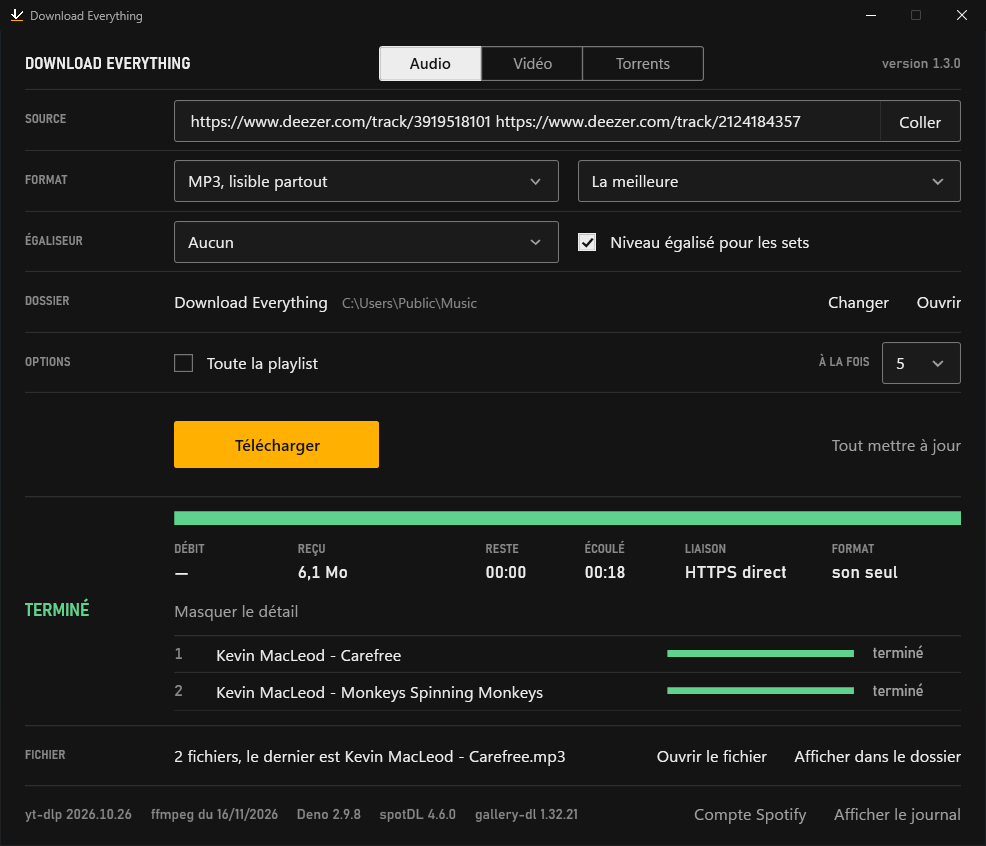
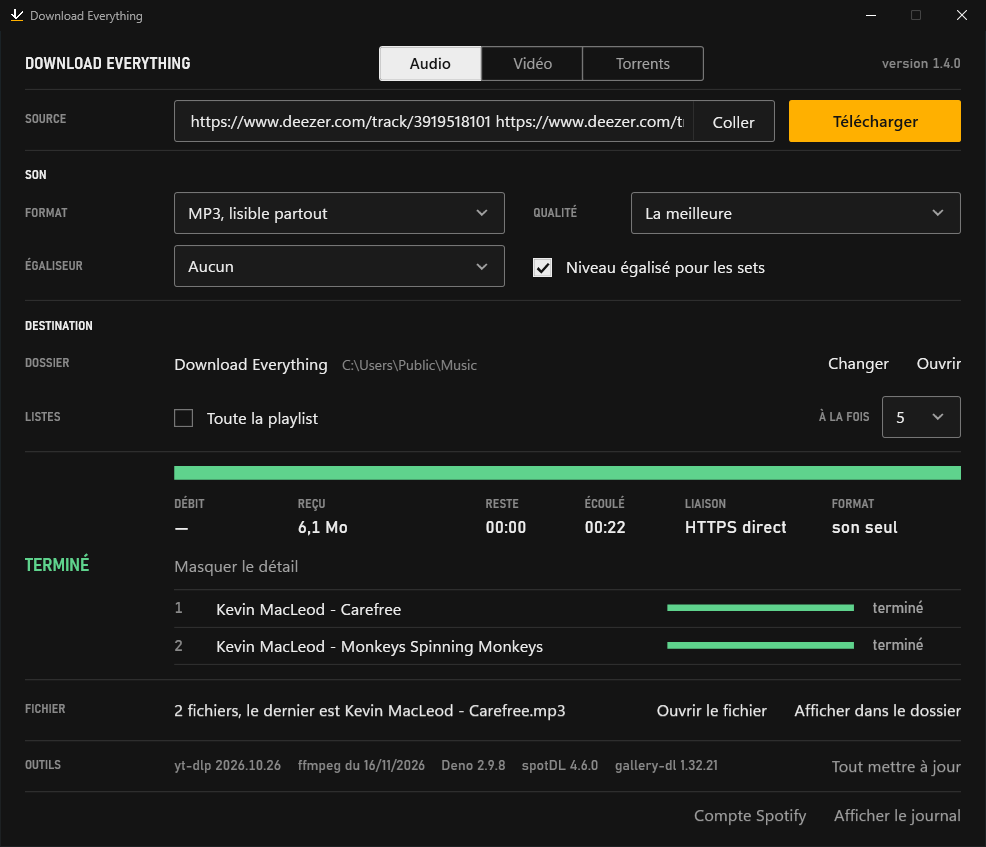
Version 1.4.0 : fenêtre réorganisée, cinq à la fois au plus
Le bouton Télécharger est sur la rangée de l'adresse : coller, cliquer,
c'est le geste de tous les jours. Annuler apparaît à côté pendant un
travail.

Les réglages se rangent en deux groupes. Le premier règle le fichier, il
s'appelle « Son » en vue audio et « Image » en vue vidéo, et sa seconde
liste porte son étiquette, « Qualité » ou « Définition ». Le second,
« Destination », tient le dossier et les réglages de liste.

« Reprendre les manquants » s'affiche dans la zone d'état, sous le message
qui annonce les échecs. « Tout mettre à jour » est au pied, sur une rangée
Outils avec les versions.

Le choix « à la fois » va de 1 à 5. À dix, YouTube refusait la connexion
dès le départ, et chaque nouvel essai relançait le refus. Un réglage plus
haut, retenu d'une version précédente, est ramené à 5.

diff --git a/FenetrePrincipale.xaml b/FenetrePrincipale.xaml
@@ -80,6 +80,17 @@
             <Setter Property="MinHeight" Value="52"/>
         </Style>
 
+        <!-- Rangée d'un groupe de réglages. Pas de filet : c'est le groupe entier qui se ferme, pas chaque rangée. -->
+        <Style x:Key="LigneDeGroupe" TargetType="Border">
+            <Setter Property="MinHeight" Value="46"/>
+        </Style>
+
+        <!-- Titre d'un groupe de réglages. Même lettrage que les étiquettes, en clair pour passer devant elles. -->
+        <Style x:Key="TitreDeGroupe" TargetType="TextBlock" BasedOn="{StaticResource Etiquette}">
+            <Setter Property="Foreground" Value="{StaticResource Texte}"/>
+            <Setter Property="Margin" Value="0,14,0,2"/>
+        </Style>
+
         <!-- Bouton principal, le seul élément plein en couleur signal. -->
         <Style x:Key="BoutonSignal" TargetType="Button">
             <Setter Property="Background" Value="{StaticResource Signal}"/>
@@ -465,15 +476,22 @@
             <!-- Vue de téléchargement : tout ce qui suit, jusqu'au pied, se cache quand on passe sur les torrents. -->
             <StackPanel x:Name="VueTelechargement">
 
-            <!-- SOURCE -->
+            <!-- SOURCE. L'adresse et le bouton qui la lance sont sur la même rangée : coller, cliquer, c'est le geste
+                 de tous les jours. Annuler n'apparaît que pendant un travail, à côté. -->
             <Border Style="{StaticResource Ligne}">
                 <Grid>
                     <Grid.ColumnDefinitions>
                         <ColumnDefinition Width="112"/>
                         <ColumnDefinition Width="16"/>
                         <ColumnDefinition Width="*"/>
+                        <ColumnDefinition Width="Auto"/>
+                        <ColumnDefinition Width="Auto"/>
                     </Grid.ColumnDefinitions>
                     <TextBlock Style="{StaticResource Etiquette}" Text="SOURCE"/>
+                    <Button x:Name="BoutonTelecharger" Grid.Column="3" Style="{StaticResource BoutonSignal}" Width="148" Height="36" Margin="12,0,0,0"
+                            Content="_Télécharger" IsDefault="True" Click="Telecharger" AutomationProperties.Name="Télécharger"/>
+                    <Button x:Name="BoutonAnnuler" Grid.Column="4" Style="{StaticResource BoutonTexte}" Padding="14,0" Margin="4,0,-12,0"
+                            Content="_Annuler" IsCancel="True" Visibility="Collapsed" Click="Annuler"/>
                     <Grid Grid.Column="2" Height="36">
                         <Border Background="{StaticResource Champ}" BorderBrush="{StaticResource Contour}" BorderThickness="1"
                                 CornerRadius="{StaticResource Rayon}"/>
@@ -520,47 +538,63 @@
                 </Grid>
             </Border>
 
-            <!-- FORMAT. Le format du fichier, puis la qualité qui va avec la vue : la définition de l'image en vidéo,
-                 le débit du son en audio. Les deux listes de qualité occupent la même place, une seule se montre. -->
-            <Border Style="{StaticResource Ligne}">
-                <Grid>
-                    <Grid.ColumnDefinitions>
-                        <ColumnDefinition Width="112"/>
-                        <ColumnDefinition Width="16"/>
-                        <ColumnDefinition Width="*"/>
-                        <ColumnDefinition Width="16"/>
-                        <ColumnDefinition Width="*"/>
-                    </Grid.ColumnDefinitions>
-                    <TextBlock Style="{StaticResource Etiquette}" Text="FORMAT"/>
-                    <ComboBox x:Name="ChoixFormat" Grid.Column="2" AutomationProperties.Name="Format"/>
-                    <ComboBox x:Name="ChoixQualite" Grid.Column="4" AutomationProperties.Name="Qualité de l'image" Visibility="Collapsed"/>
-                    <ComboBox x:Name="ChoixQualiteSon" Grid.Column="4" AutomationProperties.Name="Qualité du son"
-                              ToolTip="Débit du son converti (MP3, M4A, Opus). La source dépasse rarement 160 kb/s, un débit plus haut grossit le fichier sans l'améliorer."/>
-                </Grid>
+            <!-- Premier groupe, ce qui règle le fichier : le son en vue audio, l'image en vue vidéo. Son titre change
+                 avec la vue. Les deux rangées ont les mêmes colonnes, pour que leurs listes tombent l'une sous l'autre. -->
+            <Border BorderBrush="{StaticResource Filet}" BorderThickness="0,0,0,1" Padding="0,0,0,6">
+                <StackPanel>
+                    <TextBlock x:Name="TitreDuFichier" Style="{StaticResource TitreDeGroupe}" Text="SON"/>
+
+                    <!-- FORMAT. Le format du fichier, puis la qualité qui va avec la vue : le débit du son en audio, la
+                         définition de l'image en vidéo. Les deux listes de qualité occupent la même place, une seule se montre. -->
+                    <Border Style="{StaticResource LigneDeGroupe}">
+                        <Grid>
+                            <Grid.ColumnDefinitions>
+                                <ColumnDefinition Width="112"/>
+                                <ColumnDefinition Width="16"/>
+                                <ColumnDefinition Width="*"/>
+                                <ColumnDefinition Width="24"/>
+                                <ColumnDefinition Width="84"/>
+                                <ColumnDefinition Width="*"/>
+                            </Grid.ColumnDefinitions>
+                            <TextBlock Style="{StaticResource Etiquette}" Text="FORMAT"/>
+                            <ComboBox x:Name="ChoixFormat" Grid.Column="2" AutomationProperties.Name="Format"/>
+                            <TextBlock x:Name="EtiquetteQualite" Grid.Column="4" Style="{StaticResource Etiquette}" Text="QUALITÉ"/>
+                            <ComboBox x:Name="ChoixQualite" Grid.Column="5" AutomationProperties.Name="Qualité de l'image" Visibility="Collapsed"/>
+                            <ComboBox x:Name="ChoixQualiteSon" Grid.Column="5" AutomationProperties.Name="Qualité du son"
+                                      ToolTip="Débit du son converti (MP3, M4A, Opus). La source dépasse rarement 160 kb/s, un débit plus haut grossit le fichier sans l'améliorer."/>
+                        </Grid>
+                    </Border>
+
+                    <!-- ÉGALISEUR. Propre à la vue audio, la rangée disparaît en vidéo. -->
+                    <Border x:Name="LigneEgaliseur" Style="{StaticResource LigneDeGroupe}">
+                        <Grid>
+                            <Grid.ColumnDefinitions>
+                                <ColumnDefinition Width="112"/>
+                                <ColumnDefinition Width="16"/>
+                                <ColumnDefinition Width="*"/>
+                                <ColumnDefinition Width="24"/>
+                                <ColumnDefinition Width="84"/>
+                                <ColumnDefinition Width="*"/>
+                            </Grid.ColumnDefinitions>
+                            <TextBlock Style="{StaticResource Etiquette}" Text="ÉGALISEUR"/>
+                            <ComboBox x:Name="ChoixEgaliseur" Grid.Column="2" AutomationProperties.Name="Égaliseur"
+                                      ToolTip="Appliqué à chaque son téléchargé. Le son est alors réencodé, et le format d'origine devient de l'Opus."/>
+                            <!-- L'interrupteur du niveau égalisé. Il ne touche pas au timbre, il s'ajoute donc à l'égaliseur au lieu d'en être un réglage. -->
+                            <CheckBox x:Name="ChoixNiveau" Grid.Column="4" Grid.ColumnSpan="2" Style="{StaticResource Case}" HorizontalAlignment="Left" VerticalAlignment="Center"
+                                      Content="Niveau égalisé pour les sets"
+                                      ToolTip="Ramène chaque morceau vers −9 LUFS, le niveau des morceaux de club, pour les enchaîner sans retoucher le gain. Le son n'est pas réencodé et sa dynamique ne change pas. Un morceau trop calme pour être monté sans saturer est laissé tel quel. Avec MP3, FLAC, WAV, AIFF ou ALAC."/>
+                        </Grid>
+                    </Border>
+                </StackPanel>
             </Border>
 
-            <!-- ÉGALISEUR. Propre à la vue audio, la rangée disparaît en vidéo. -->
-            <Border x:Name="LigneEgaliseur" Style="{StaticResource Ligne}">
-                <Grid>
-                    <Grid.ColumnDefinitions>
-                        <ColumnDefinition Width="112"/>
-                        <ColumnDefinition Width="16"/>
-                        <ColumnDefinition Width="*"/>
-                        <ColumnDefinition Width="16"/>
-                        <ColumnDefinition Width="*"/>
-                    </Grid.ColumnDefinitions>
-                    <TextBlock Style="{StaticResource Etiquette}" Text="ÉGALISEUR"/>
-                    <ComboBox x:Name="ChoixEgaliseur" Grid.Column="2" AutomationProperties.Name="Égaliseur"
-                              ToolTip="Appliqué à chaque son téléchargé. Le son est alors réencodé, et le format d'origine devient de l'Opus."/>
-                    <!-- L'interrupteur du niveau égalisé. Il ne touche pas au timbre, il s'ajoute donc à l'égaliseur au lieu d'en être un réglage. -->
-                    <CheckBox x:Name="ChoixNiveau" Grid.Column="4" Style="{StaticResource Case}" HorizontalAlignment="Left" VerticalAlignment="Center"
-                              Content="Niveau égalisé pour les sets"
-                              ToolTip="Ramène chaque morceau vers −9 LUFS, le niveau des morceaux de club, pour les enchaîner sans retoucher le gain. Le son n'est pas réencodé et sa dynamique ne change pas. Un morceau trop calme pour être monté sans saturer est laissé tel quel. Avec MP3, FLAC, WAV, AIFF ou ALAC."/>
-                </Grid>
-            </Border>
+            <!-- Second groupe, où va le fichier et comment les listes sont prises. Pas de filet en bas : la zone d'état
+                 ou le pied, qui suivent, portent le leur. -->
+            <StackPanel Margin="0,0,0,6">
+            <TextBlock Style="{StaticResource TitreDeGroupe}" Text="DESTINATION"/>
 
             <!-- DOSSIER. Le nom du dossier d'abord, le chemin qui y mène ensuite, en plus discret. -->
-            <Border x:Name="LigneDossier" Style="{StaticResource Ligne}">
+            <Border x:Name="LigneDossier" Style="{StaticResource LigneDeGroupe}">
                 <Grid>
                     <Grid.ColumnDefinitions>
                         <ColumnDefinition Width="112"/>
@@ -582,15 +616,15 @@
                 </Grid>
             </Border>
 
-            <!-- OPTIONS -->
-            <Border Style="{StaticResource Ligne}">
+            <!-- LISTES. Les deux réglages qui ne jouent que pour un album, une playlist ou plusieurs liens. -->
+            <Border Style="{StaticResource LigneDeGroupe}">
                 <Grid>
                     <Grid.ColumnDefinitions>
                         <ColumnDefinition Width="112"/>
                         <ColumnDefinition Width="16"/>
                         <ColumnDefinition Width="*"/>
                     </Grid.ColumnDefinitions>
-                    <TextBlock Style="{StaticResource Etiquette}" Text="OPTIONS"/>
+                    <TextBlock Style="{StaticResource Etiquette}" Text="LISTES"/>
                     <Grid Grid.Column="2">
                         <Grid.ColumnDefinitions>
                             <ColumnDefinition Width="*"/>
@@ -603,35 +637,12 @@
                                   ToolTip="Quand l'adresse désigne une vidéo qui fait partie d'une playlist, prendre toute la playlist"/>
                         <TextBlock Grid.Column="1" Style="{StaticResource Etiquette}" Text="À LA FOIS"/>
                         <ComboBox x:Name="ChoixSimultanes" Grid.Column="3" AutomationProperties.Name="Nombre de téléchargements à la fois"
-                                  ToolTip="Pour les albums, les playlists et plusieurs liens. Au-delà de 5, YouTube refuse plus souvent des demandes."/>
+                                  ToolTip="Pour les albums, les playlists et plusieurs liens. Cinq au plus : au-delà, YouTube refuse la connexion."/>
                     </Grid>
                 </Grid>
             </Border>
 
-            <!-- Actions, alignées sur la colonne des commandes. Annuler n'apparaît que pendant un travail. -->
-            <Grid Margin="0,24,0,24">
-                <Grid.ColumnDefinitions>
-                    <ColumnDefinition Width="128"/>
-                    <ColumnDefinition Width="Auto"/>
-                    <ColumnDefinition Width="Auto"/>
-                    <ColumnDefinition Width="Auto"/>
-                    <ColumnDefinition Width="*"/>
-                    <ColumnDefinition Width="Auto"/>
-                    <ColumnDefinition Width="Auto"/>
-                </Grid.ColumnDefinitions>
-                <Button x:Name="BoutonTelecharger" Grid.Column="1" Style="{StaticResource BoutonSignal}" Content="_Télécharger"
-                        IsDefault="True" Click="Telecharger" AutomationProperties.Name="Télécharger"/>
-                <Button x:Name="BoutonAnnuler" Grid.Column="2" Style="{StaticResource BoutonTexte}" Height="40" Padding="16,0" Margin="8,0,0,0"
-                        Content="_Annuler" IsCancel="True" Visibility="Collapsed" Click="Annuler"/>
-                <!-- N'apparaît qu'après une liste dont des éléments n'ont pas abouti. -->
-                <Button x:Name="BoutonReprendre" Grid.Column="3" Style="{StaticResource BoutonTexte}" Height="40" Padding="16,0" Margin="8,0,0,0"
-                        Visibility="Collapsed" Click="ReprendreLesManquants"
-                        ToolTip="Relance seulement ce qui n'a pas abouti dans la dernière liste, sans relire le lien"/>
-                <Button x:Name="BoutonMettreAJour" Grid.Column="5" Style="{StaticResource BoutonTexte}" Height="40" Margin="0,0,-12,0"
-                        Foreground="{StaticResource TexteDoux}" Content="Tout _mettre à jour" Click="MettreAJour"
-                        AutomationProperties.Name="Tout mettre à jour"
-                        ToolTip="Cherche les dernières versions de yt-dlp, ffmpeg, Deno, spotDL et gallery-dl sur leurs dépôts officiels"/>
-            </Grid>
+            </StackPanel>
 
             <!-- ÉTAT. Rien au repos. La colonne de gauche sert d'afficheur : le pourcentage en grand, puis le mot de la fin. -->
             <Border x:Name="ZoneEtat" Visibility="Collapsed" BorderBrush="{StaticResource Filet}" BorderThickness="0,1,0,0" MinHeight="64" Padding="0,12">
@@ -678,6 +689,11 @@
 
                         <TextBlock x:Name="TexteEtat" Margin="0,12,0,0" TextWrapping="Wrap" Visibility="Collapsed"
                                    Foreground="{StaticResource TexteDoux}" AutomationProperties.LiveSetting="Polite"/>
+
+                        <!-- N'apparaît qu'après une liste dont des éléments n'ont pas abouti, sous le message qui le dit. -->
+                        <Button x:Name="BoutonReprendre" Style="{StaticResource BoutonTexte}" Height="32" Margin="-12,8,0,0"
+                                HorizontalAlignment="Left" Foreground="{StaticResource Signal}" Visibility="Collapsed" Click="ReprendreLesManquants"
+                                ToolTip="Relance seulement ce qui n'a pas abouti dans la dernière liste, sans relire le lien"/>
 
                         <!-- Playlist. La barre du haut donne l'ensemble, cette liste dépliable donne chaque vidéo. -->
                         <ToggleButton x:Name="BasculeElements" Style="{StaticResource BoutonTexte}" Height="32" Margin="-12,8,0,0"
@@ -829,29 +845,41 @@
             <!-- Vue des torrents, posée ici par le code à la première visite (voir ChangerDeVue). -->
             <Border x:Name="ZoneTorrents" Visibility="Collapsed"/>
 
-            <!-- Pied. Les versions des outils, l'accès au compte Spotify et au journal. -->
-            <Border BorderBrush="{StaticResource Filet}" BorderThickness="0,1,0,0" Padding="0,8,0,0">
+            <!-- Pied. D'abord les outils : leurs versions, et le bouton qui les met à jour, à côté de ce qu'il change. -->
+            <Border BorderBrush="{StaticResource Filet}" BorderThickness="0,1,0,0" MinHeight="44">
                 <Grid>
                     <Grid.ColumnDefinitions>
+                        <ColumnDefinition Width="112"/>
+                        <ColumnDefinition Width="16"/>
                         <ColumnDefinition Width="*"/>
                         <ColumnDefinition Width="Auto"/>
-                        <ColumnDefinition Width="Auto"/>
                     </Grid.ColumnDefinitions>
-                    <StackPanel Orientation="Horizontal" VerticalAlignment="Center" TextElement.FontFamily="Bahnschrift"
+                    <TextBlock Style="{StaticResource Etiquette}" Text="OUTILS"/>
+                    <StackPanel Grid.Column="2" Orientation="Horizontal" VerticalAlignment="Center" TextElement.FontFamily="Bahnschrift"
                                 TextElement.FontSize="12" TextElement.Foreground="{StaticResource TexteEtiquette}">
                         <TextBlock x:Name="TexteVersion" Text="Recherche des outils…" Typography.NumeralAlignment="Tabular"/>
-                        <TextBlock x:Name="VersionFfmpeg" Margin="16,0,0,0"/>
-                        <TextBlock x:Name="VersionDeno" Margin="16,0,0,0"/>
-                        <TextBlock x:Name="VersionSpotDl" Margin="16,0,0,0"/>
-                        <TextBlock x:Name="VersionGalleryDl" Margin="16,0,0,0"/>
+                        <TextBlock x:Name="VersionFfmpeg" Margin="14,0,0,0"/>
+                        <TextBlock x:Name="VersionDeno" Margin="14,0,0,0"/>
+                        <TextBlock x:Name="VersionSpotDl" Margin="14,0,0,0"/>
+                        <TextBlock x:Name="VersionGalleryDl" Margin="14,0,0,0"/>
                     </StackPanel>
-                    <ToggleButton x:Name="BasculeCle" Grid.Column="1" Style="{StaticResource BoutonTexte}" Height="32"
+                    <Button x:Name="BoutonMettreAJour" Grid.Column="3" Style="{StaticResource BoutonTexte}" Height="32" Margin="8,0,-12,0"
+                            Foreground="{StaticResource TexteDoux}" Content="Tout _mettre à jour" Click="MettreAJour"
+                            AutomationProperties.Name="Tout mettre à jour"
+                            ToolTip="Cherche les dernières versions de yt-dlp, ffmpeg, Deno, spotDL et gallery-dl sur leurs dépôts officiels"/>
+                </Grid>
+            </Border>
+
+            <!-- Puis l'accès au compte Spotify et au journal, qui n'ont de sens que pour un téléchargement. -->
+            <Border x:Name="PiedDesBascules" BorderBrush="{StaticResource Filet}" BorderThickness="0,1,0,0" Padding="0,4,0,0">
+                <StackPanel Orientation="Horizontal" HorizontalAlignment="Right">
+                    <ToggleButton x:Name="BasculeCle" Style="{StaticResource BoutonTexte}" Height="32"
                                   Foreground="{StaticResource TexteDoux}" Content="Compte _Spotify"
                                   Checked="BasculerLaCle" Unchecked="BasculerLaCle"/>
-                    <ToggleButton x:Name="BasculeJournal" Grid.Column="2" Style="{StaticResource BoutonTexte}" Height="32" Margin="0,0,-12,0"
+                    <ToggleButton x:Name="BasculeJournal" Style="{StaticResource BoutonTexte}" Height="32" Margin="0,0,-12,0"
                                   Foreground="{StaticResource TexteDoux}" Content="Afficher le _journal"
                                   Checked="BasculerLeJournal" Unchecked="BasculerLeJournal"/>
-                </Grid>
+                </StackPanel>
             </Border>
         </StackPanel>
     </ScrollViewer>

diff --git a/FenetrePrincipale.xaml.cs b/FenetrePrincipale.xaml.cs
@@ -172,8 +172,13 @@ public partial class FenetrePrincipale : Window
         AdapterLesListes();
 
         // Les deux options, relues telles que laissées la dernière fois, et notées dès qu'on les change.
-        ChoixSimultanes.ItemsSource = Enumerable.Range(1, 10).ToList();
-        ChoixSimultanes.SelectedItem = int.TryParse(Reglages.Lire("simultanes", "5"), out var simultanes) && simultanes is >= 1 and <= 10 ? simultanes : 5;
+        // De 1 à 5. Les choix de 6 à 10 ont été retirés le 22/11/2026 : à dix à la fois, YouTube refusait la
+        // connexion dès le départ, et chaque nouvel essai relançait le refus. Un réglage plus haut, retenu d'une
+        // version précédente, est ramené à 5.
+        ChoixSimultanes.ItemsSource = Enumerable.Range(1, SimultanesAuPlus).ToList();
+        ChoixSimultanes.SelectedItem = int.TryParse(Reglages.Lire("simultanes", "5"), out var simultanes) && simultanes >= 1
+            ? Math.Min(simultanes, SimultanesAuPlus)
+            : SimultanesAuPlus;
         ChoixSimultanes.SelectionChanged += (_, _) => Reglages.Ecrire("simultanes", Simultanes.ToString(CultureInfo.InvariantCulture));
         ChoixQualiteSon.ItemsSource = YtDlp.QualitesDuSon;
         var qualiteNotee = Reglages.Lire("qualite-du-son", "0");
@@ -361,6 +366,9 @@ public partial class FenetrePrincipale : Window
             _formatsEnChangement = false;
         }
         ChoixFormat.IsEnabled = avecFfmpeg;
+        // Le groupe porte le nom de ce qu'il règle, et sa seconde liste celui de la qualité qui va avec la vue.
+        if (TitreDuFichier is not null) TitreDuFichier.Text = audio ? "SON" : "IMAGE";
+        if (EtiquetteQualite is not null) EtiquetteQualite.Text = audio ? "QUALITÉ" : "DÉFINITION";
         // La définition de l'image pour la vidéo. Le débit du son et l'égaliseur pour l'audio, qui demandent ffmpeg.
         ChoixQualite.Visibility = audio ? Visibility.Collapsed : Visibility.Visible;
         if (ChoixQualiteSon is not null)
@@ -1334,8 +1342,9 @@ public partial class FenetrePrincipale : Window
     // ───────────────────────────── Listes menées à plusieurs de front ─────────────────────────────
 
     // Nombre de téléchargements menés en même temps dans un album, une playlist ou une file de liens.
-    // Réglable de 1 à 10 dans la fenêtre. Cinq par défaut, au-delà YouTube refuse plus souvent des demandes.
-    private int Simultanes => ChoixSimultanes.SelectedItem is int nombre ? nombre : 5;
+    // Réglable de 1 à 5 dans la fenêtre, cinq par défaut. Au-delà, YouTube refuse la connexion.
+    private const int SimultanesAuPlus = 5;
+    private int Simultanes => ChoixSimultanes.SelectedItem is int nombre ? Math.Min(nombre, SimultanesAuPlus) : SimultanesAuPlus;
 
     // Qualité du son choisie au moment où l'on clique Télécharger, gardée telle quelle pour tout le travail.
     private string _qualiteDuSon = "0";
@@ -2304,8 +2313,9 @@ public partial class FenetrePrincipale : Window
         var torrentsAvant = ZoneTorrents.Visibility == Visibility.Visible;
         VueTelechargement.Visibility = torrents ? Visibility.Collapsed : Visibility.Visible;
         ZoneTorrents.Visibility = torrents ? Visibility.Visible : Visibility.Collapsed;
-        // Le compte Spotify et le journal appartiennent à la vue de téléchargement.
+        // Le compte Spotify et le journal appartiennent à la vue de téléchargement : leur rangée du pied part avec elle.
         BasculeCle.Visibility = BasculeJournal.Visibility = torrents ? Visibility.Collapsed : Visibility.Visible;
+        PiedDesBascules.Visibility = torrents ? Visibility.Collapsed : Visibility.Visible;
         if (torrents != torrentsAvant)
         {
             // On entre dans les torrents ou on en sort : toute la vue qui arrive monte de quelques points en apparaissant.

diff --git a/README.md b/README.md
@@ -17,7 +17,7 @@ Au premier lancement, Windows affiche un écran d'avertissement, parce que le fi
 Pour Debian et Ubuntu, prendre le fichier `.deb` de la [dernière version](../../releases/latest), puis :
 
 ```
-sudo apt install ./download-everything_1.3.0_amd64.deb
+sudo apt install ./download-everything_1.4.0_amd64.deb
 ```
 
 L'application apparaît ensuite dans le menu.
@@ -26,7 +26,7 @@ L'application apparaît ensuite dans le menu.
 
 1. Copier l'adresse de ce qu'on veut. Sous Windows, en revenant sur la fenêtre, elle est déjà dans le champ. On peut aussi la glisser dessus.
 2. Choisir sa vue avec les trois touches du haut, Audio, Vidéo ou Torrents. L'application s'ouvre sur Audio.
-3. Cliquer Télécharger.
+3. Cliquer Télécharger, juste à côté de l'adresse.
 
 Le reste se règle tout seul. Le son sort en MP3 et la vidéo en MP4, deux formats qui se lisent partout. Chaque vue ne montre que ses réglages, et retient les siens quand on passe de l'une à l'autre.
 
@@ -42,7 +42,7 @@ Plusieurs liens collés d'un coup partent ensemble.
 
 ## Bon à savoir
 
-Une playlist ou un album se télécharge à plusieurs morceaux à la fois, cinq par défaut, avec une ligne et une barre pour chacun. Ce qui est déjà dans le dossier n'est pas repris. À la fin, un bouton relance seulement ce qui a raté.
+Une playlist ou un album se télécharge à plusieurs morceaux à la fois, cinq au plus, avec une ligne et une barre pour chacun. Au-delà de cinq, YouTube refuse la connexion, le réglage ne va donc pas plus haut. Ce qui est déjà dans le dossier n'est pas repris. À la fin, un bouton relance seulement ce qui a raté.
 
 Chaque morceau reçoit sa jaquette, son titre, son artiste et son année, et s'appelle « Artiste - Titre.mp3 ».
 
